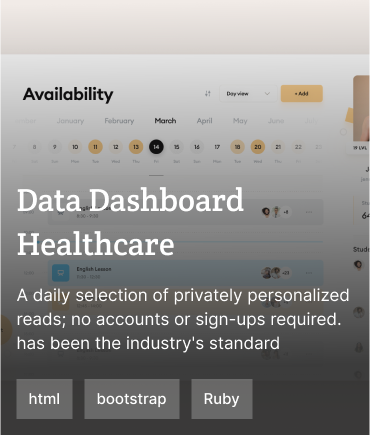
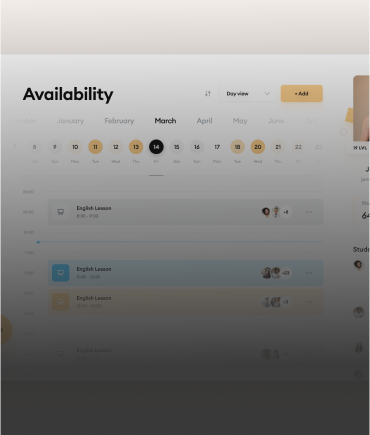
Add background images to the data base

Changed region(s): [[0.0297, 0.6575, 0.9514, 0.8069], [0.0297, 0.8667, 0.6838, 0.9862], [0.0297, 0.4184, 0.6541, 0.5977]]

diff --git a/index.html b/index.html
@@ -93,8 +93,8 @@ don’t hesitate to contact me.</p>
           <hr>
         </div>
 
-     <div class="middle-part">
-     <!--     <img src="images/yoga-image.png" alt="yoga illustration" class = image_one>
+    <!-- <div class="middle-part">
+          <img src="images/yoga-image.png" alt="yoga illustration" class = image_one>
     
           <div class="multi-post">
               <h3>Multi-Post Stories</h3>
@@ -206,9 +206,9 @@ don’t hesitate to contact me.</p>
         <div class="card-3">
           <button>See Project</button>
         </div>
-      </div>-->
-    </div>       
-    <!-- <div class="alt-card">
+      </div>
+    </div>       -->
+    <div class="alt-card">
       <h2>Website Portfolio </h2>
       <p>A daily selection of privately personalized reads; no accounts or sign-ups required. Has been the industry's standard.</p>
       <ul>
@@ -216,7 +216,7 @@ don’t hesitate to contact me.</p>
         <li>Bootstrap</li>
         <li>Ruby</li>
       </ul>
-    </div> -->
+    </div>
  
    
 </section>

diff --git a/index.js b/index.js
@@ -9,7 +9,7 @@ const datas = [
   //   source: "https://github.com/God-Logic/My-Portfolio-Website",
   // },
   {
-    image: "images/Card 4.png",
+    image: "images/Card 1.png",
     name: "Profesional Art Printing Data More",
     description:
       "A daily selection of privately personalized reads; no accounts or sign-ups required. has been the industry's standard dummy text ever since the 1500s, when an unknown printer took a standard dummy text.",
@@ -36,7 +36,7 @@ const datas = [
     source: "https://github.com/God-Logic/My-Portfolio-Website",
   },
   {
-    image: "images/Card 4.png",
+    image: "images/Card 1.png",
     name: "Profesional Art Printing Data More",
     description:
       "A daily selection of privately personalized reads; no accounts or sign-ups required. has been the industry's standard dummy text ever since the 1500s, when an unknown printer took a standard dummy text.",
